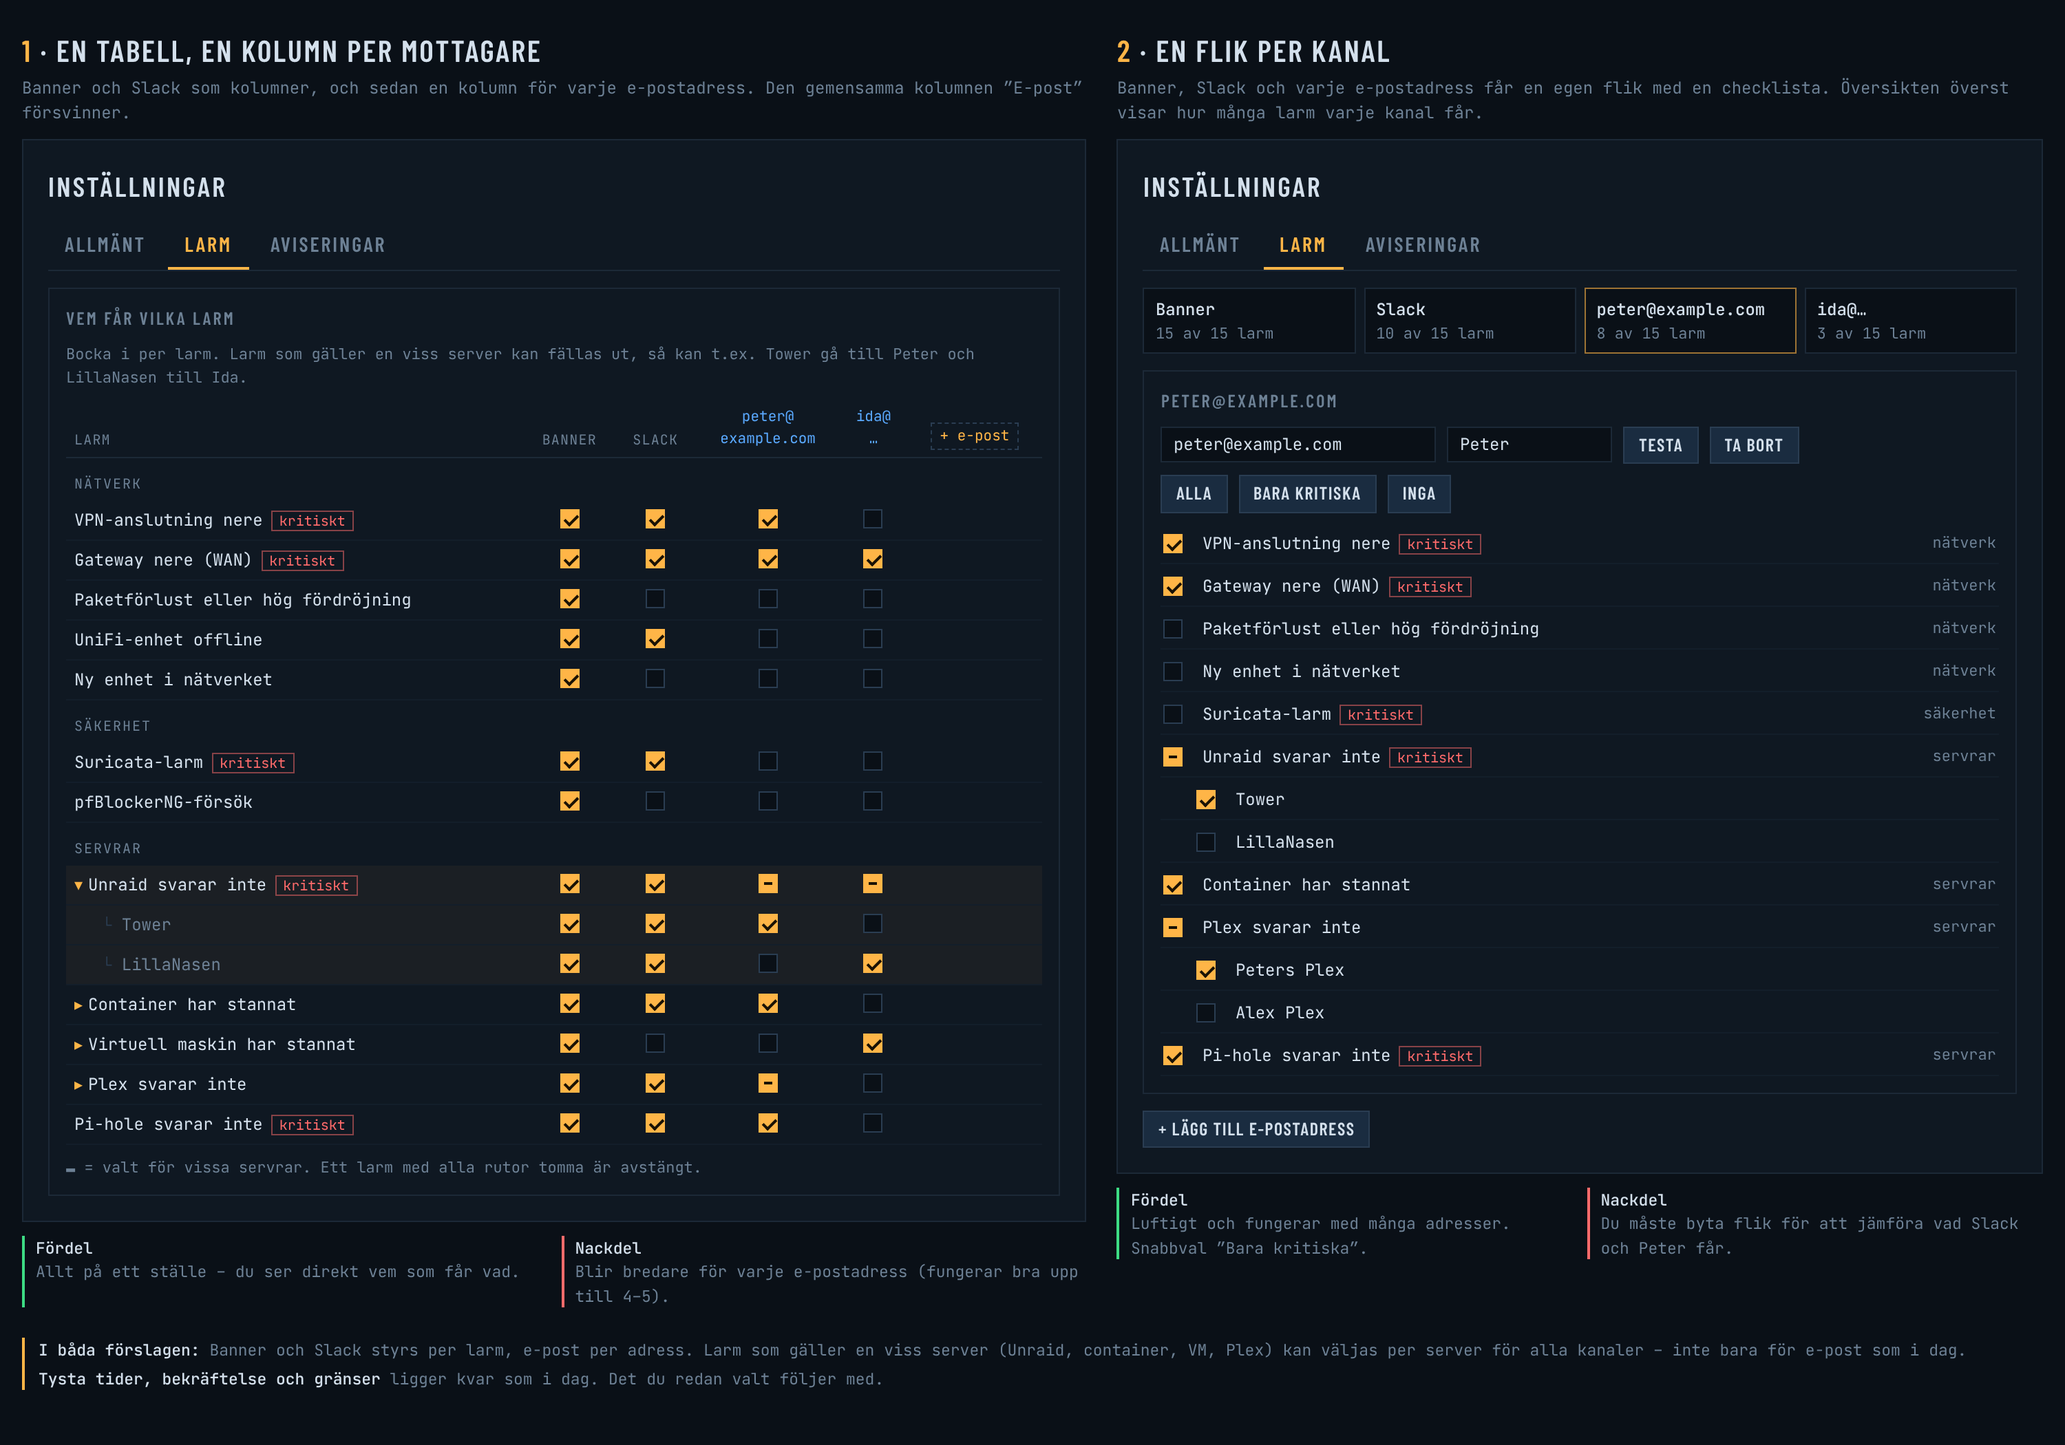
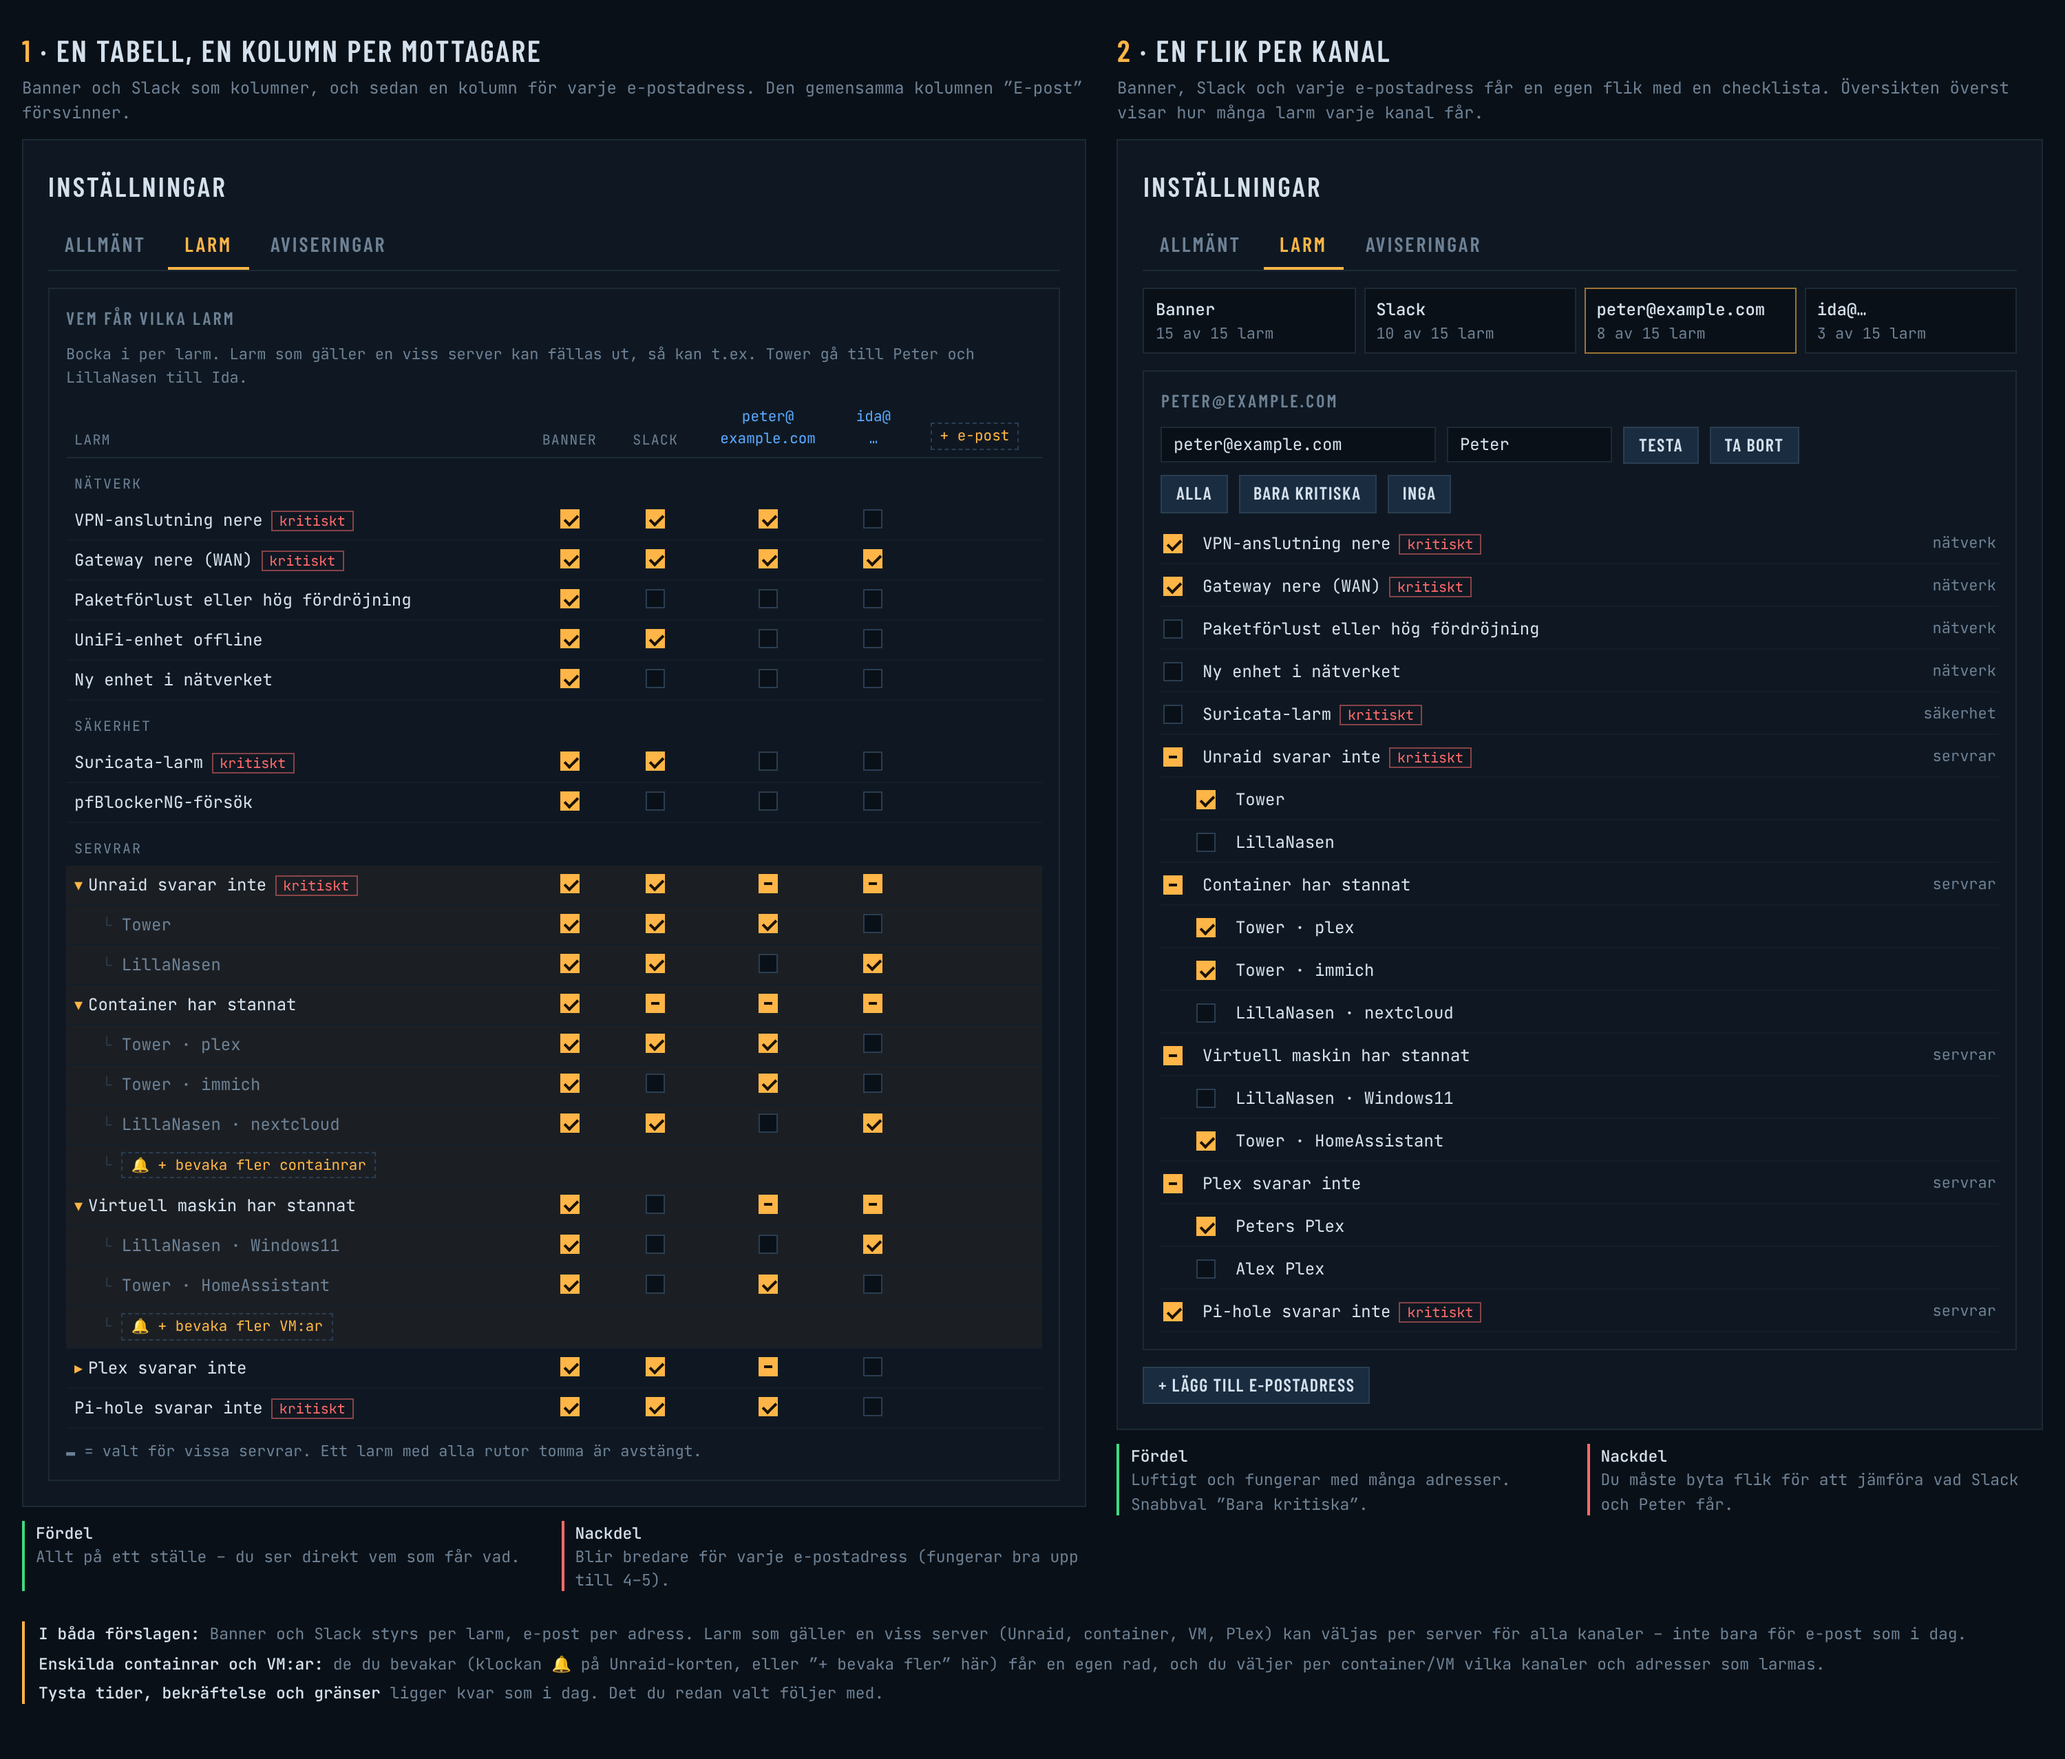
Skiss: enskilda containrar och VM:ar i larmvalen
Claude-Session: https://claude.ai/code/session_01KxnDN2FjTqW95yoz1EDdMq

diff --git a/mockups/larmkanal.html b/mockups/larmkanal.html
@@ -83,8 +83,15 @@ tr.hl td{background:rgba(255,181,71,.05)}
 <tr class="hl"><td><span class="chev">▾</span>Unraid svarar inte<span class="crit">kritiskt</span></td><td><span class="x on"></span></td><td><span class="x on"></span></td><td><span class="x part"></span></td><td><span class="x part"></span></td><td></td></tr>
 <tr class="sub hl"><td>Tower</td><td><span class="x on"></span></td><td><span class="x on"></span></td><td><span class="x on"></span></td><td><span class="x"></span></td><td></td></tr>
 <tr class="sub hl"><td>LillaNasen</td><td><span class="x on"></span></td><td><span class="x on"></span></td><td><span class="x"></span></td><td><span class="x on"></span></td><td></td></tr>
-<tr><td><span class="chev">▸</span>Container har stannat</td><td><span class="x on"></span></td><td><span class="x on"></span></td><td><span class="x on"></span></td><td><span class="x"></span></td><td></td></tr>
-<tr><td><span class="chev">▸</span>Virtuell maskin har stannat</td><td><span class="x on"></span></td><td><span class="x"></span></td><td><span class="x"></span></td><td><span class="x on"></span></td><td></td></tr>
+<tr class="hl"><td><span class="chev">▾</span>Container har stannat</td><td><span class="x on"></span></td><td><span class="x part"></span></td><td><span class="x part"></span></td><td><span class="x part"></span></td><td></td></tr>
+<tr class="sub hl"><td>Tower · plex</td><td><span class="x on"></span></td><td><span class="x on"></span></td><td><span class="x on"></span></td><td><span class="x"></span></td><td></td></tr>
+<tr class="sub hl"><td>Tower · immich</td><td><span class="x on"></span></td><td><span class="x"></span></td><td><span class="x on"></span></td><td><span class="x"></span></td><td></td></tr>
+<tr class="sub hl"><td>LillaNasen · nextcloud</td><td><span class="x on"></span></td><td><span class="x on"></span></td><td><span class="x"></span></td><td><span class="x on"></span></td><td></td></tr>
+<tr class="sub hl"><td><span class="add">🔔 + bevaka fler containrar</span></td><td colspan="5"></td></tr>
+<tr class="hl"><td><span class="chev">▾</span>Virtuell maskin har stannat</td><td><span class="x on"></span></td><td><span class="x"></span></td><td><span class="x part"></span></td><td><span class="x part"></span></td><td></td></tr>
+<tr class="sub hl"><td>LillaNasen · Windows11</td><td><span class="x on"></span></td><td><span class="x"></span></td><td><span class="x"></span></td><td><span class="x on"></span></td><td></td></tr>
+<tr class="sub hl"><td>Tower · HomeAssistant</td><td><span class="x on"></span></td><td><span class="x"></span></td><td><span class="x on"></span></td><td><span class="x"></span></td><td></td></tr>
+<tr class="sub hl"><td><span class="add">🔔 + bevaka fler VM:ar</span></td><td colspan="5"></td></tr>
 <tr><td><span class="chev">▸</span>Plex svarar inte</td><td><span class="x on"></span></td><td><span class="x on"></span></td><td><span class="x part"></span></td><td><span class="x"></span></td><td></td></tr>
 <tr><td>Pi-hole svarar inte<span class="crit">kritiskt</span></td><td><span class="x on"></span></td><td><span class="x on"></span></td><td><span class="x on"></span></td><td><span class="x"></span></td><td></td></tr>
 </table>
@@ -117,7 +124,13 @@ tr.hl td{background:rgba(255,181,71,.05)}
 <div class="li"><span class="x part"></span><span>Unraid svarar inte<span class="crit">kritiskt</span></span><span class="m">servrar</span></div>
 <div class="li sub"><span class="x on"></span><span>Tower</span><span></span></div>
 <div class="li sub"><span class="x"></span><span>LillaNasen</span><span></span></div>
-<div class="li"><span class="x on"></span><span>Container har stannat</span><span class="m">servrar</span></div>
+<div class="li"><span class="x part"></span><span>Container har stannat</span><span class="m">servrar</span></div>
+<div class="li sub"><span class="x on"></span><span>Tower · plex</span><span></span></div>
+<div class="li sub"><span class="x on"></span><span>Tower · immich</span><span></span></div>
+<div class="li sub"><span class="x"></span><span>LillaNasen · nextcloud</span><span></span></div>
+<div class="li"><span class="x part"></span><span>Virtuell maskin har stannat</span><span class="m">servrar</span></div>
+<div class="li sub"><span class="x"></span><span>LillaNasen · Windows11</span><span></span></div>
+<div class="li sub"><span class="x on"></span><span>Tower · HomeAssistant</span><span></span></div>
 <div class="li"><span class="x part"></span><span>Plex svarar inte</span><span class="m">servrar</span></div>
 <div class="li sub"><span class="x on"></span><span>Peters Plex</span><span></span></div>
 <div class="li sub"><span class="x"></span><span>Alex Plex</span><span></span></div>
@@ -131,6 +144,7 @@ tr.hl td{background:rgba(255,181,71,.05)}
 
 <div class="note">
 <span><b>I båda förslagen:</b> Banner och Slack styrs per larm, e-post per adress. Larm som gäller en viss server (Unraid, container, VM, Plex) kan väljas per server för alla kanaler – inte bara för e-post som i dag.</span>
+<span><b>Enskilda containrar och VM:ar:</b> de du bevakar (klockan 🔔 på Unraid-korten, eller ”+ bevaka fler” här) får en egen rad, och du väljer per container/VM vilka kanaler och adresser som larmas.</span>
 <span><b>Tysta tider, bekräftelse och gränser</b> ligger kvar som i dag. Det du redan valt följer med.</span>
 </div>
 </div>
